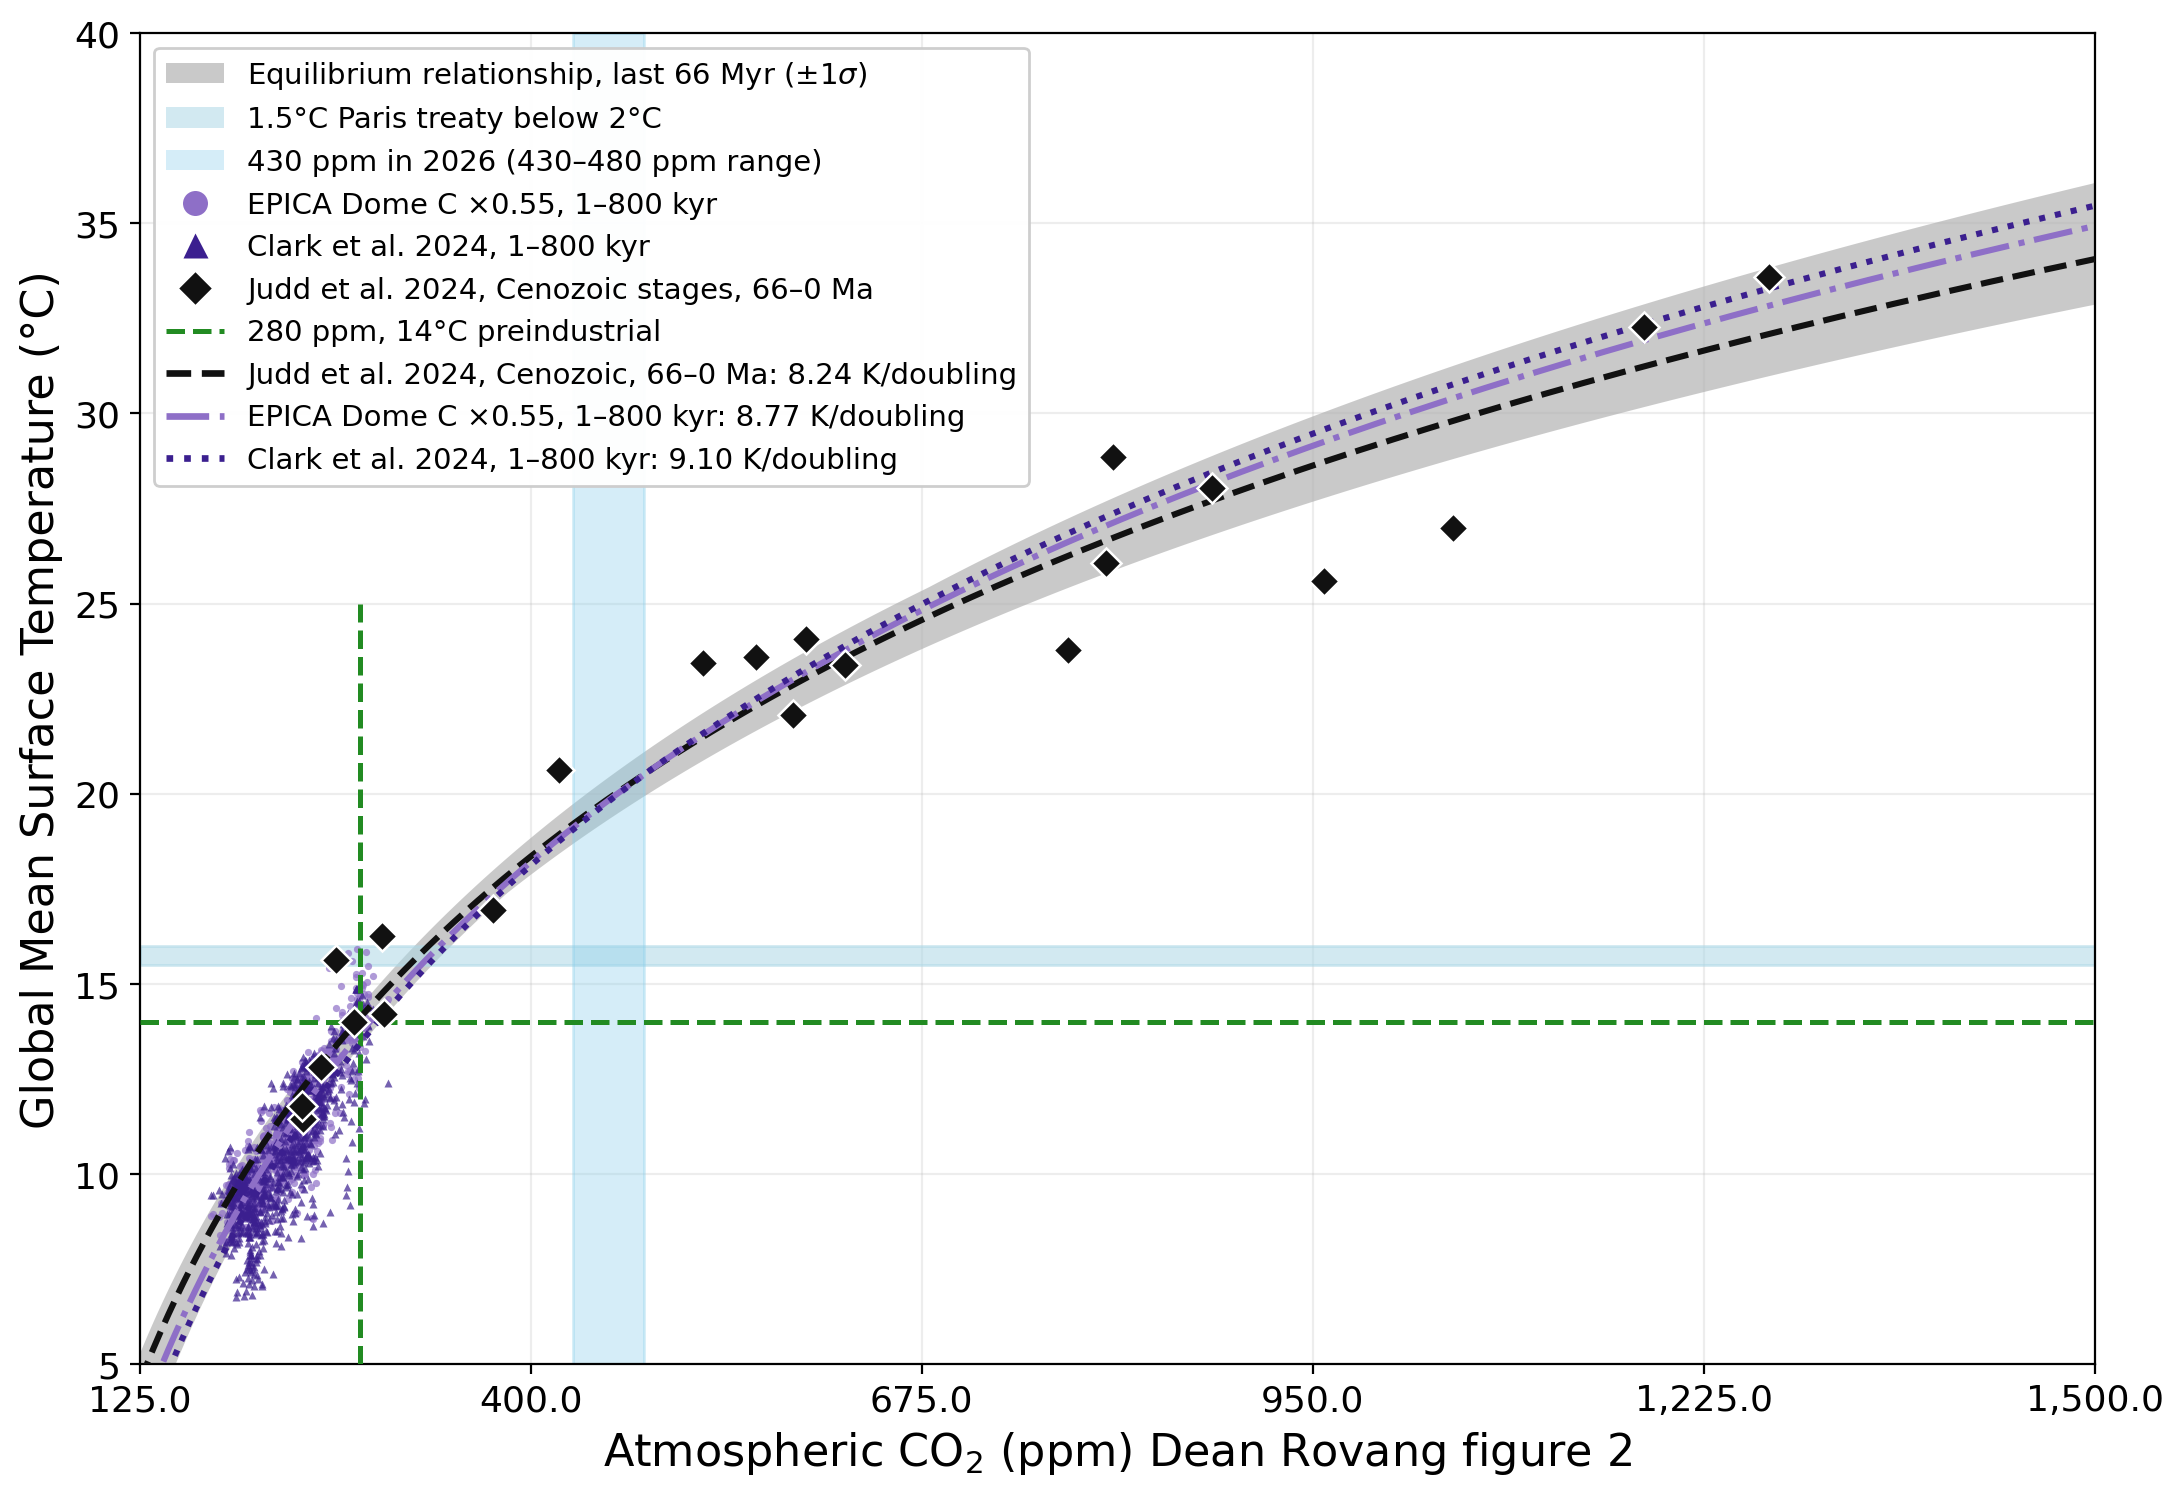
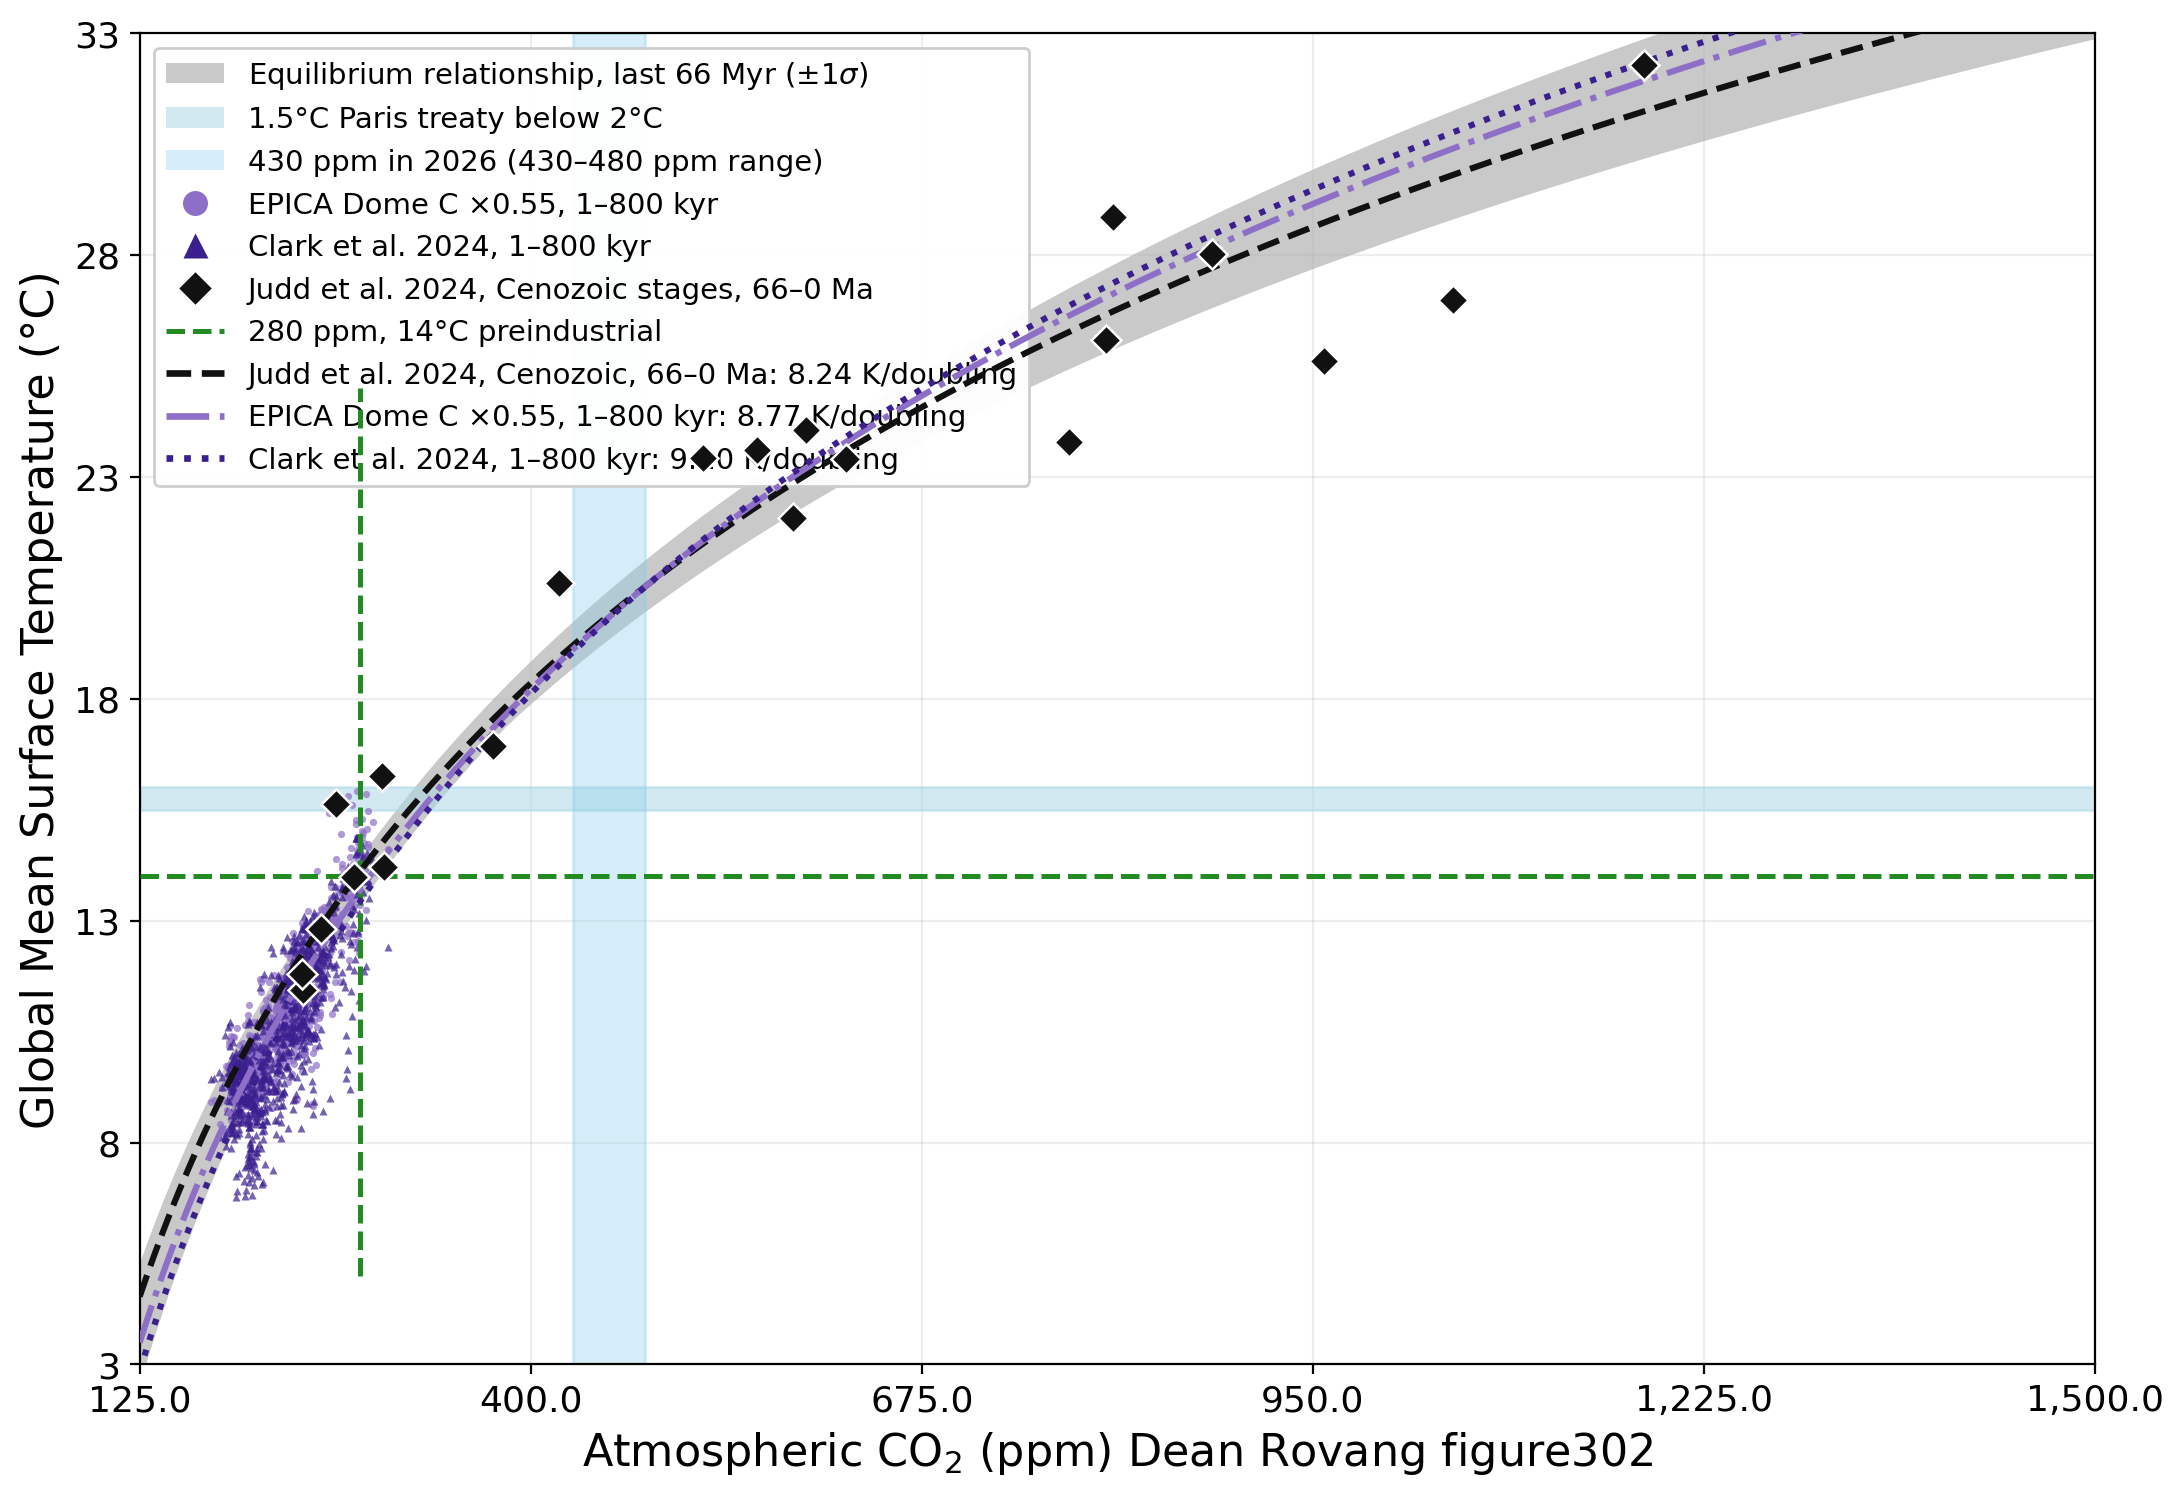
v = "5K44" # Figure_304

diff --git a/Rovang/Rovang_figure_303.py b/Rovang/Rovang_figure_303.py
@@ -22,10 +22,12 @@ import matplotlib.pyplot as plt
 from matplotlib.lines import Line2D
 from matplotlib.patches import Patch
 
+from config import *
+
 GRAY = "#b8b8b8"
 JUDD = "#111111"          # black diamonds, the established default
 EP = "#8e6fc7"            # EPICA, the original purple
-CLK = "#3b1f8f"            # Clark, deep violet-blue - separated from EPICA in hue and value
+CLK = "#3b1f8f"           # Clark, deep violet-blue - separated from EPICA in hue and value
 XLO, XHI = 125, 1500
 YLO, YHI = 5, 40
 
@@ -79,7 +81,7 @@ def _create_figure(linear_x=False):
             mew=0.9, zorder=12,
             label="Judd et al. 2024, Cenozoic stages, 66\u20130 Ma")
 
-    print("Figure 1 \u2014 fits and where each record sits\n")
+    print("Figure 303 \u2014 fits and where each record sits\n")
     xs = np.linspace(Lg(XLO), Lg(XHI), 400)
     for name, slope, intercept, _sg, _sb, color, style in fits:
         src = B.jx if "Judd" in name else (
@@ -102,12 +104,12 @@ def _create_figure(linear_x=False):
     )
     ax.set_xticks(ticks)
     ax.set_xticklabels([f"{tick:,}" for tick in ticks])
-    ax.set_ylim(YLO, YHI)
-    ax.set_yticks(np.arange(YLO, YHI + 1, 5))
+    ax.set_ylim(y_303min, y_303max)
+    ax.set_yticks(np.arange(y_303min, y_303max + 1, 5))
     figure_label = "2" if linear_x else "1"
     scale_label = "ppm" if linear_x else "ppm, log$_2$ scale"
     ax.set_xlabel(
-        f"Atmospheric CO$_2$ ({scale_label}) Dean Rovang figure {figure_label}",
+        f"Atmospheric CO$_2$ ({scale_label}) Dean Rovang figure30{figure_label}",
         fontsize=16,
     )
     ax.set_ylabel("Global Mean Surface Temperature (\u00b0C)", fontsize=16)
@@ -165,9 +167,6 @@ def figure_304_Rovang():
     """Create the linear-x Rovang figure and save figure_304_Rovang.png."""
     return _create_figure(linear_x=True)
 
-def Rovang_figure_2_not_used():
-    """Create the linear-x Rovang figure and save Rovang_figure_2.png."""
-    return _create_figure(linear_x=True)
 
 if __name__ == "__main__":
     figure_303_Rovang()

diff --git a/config.py b/config.py
@@ -255,8 +255,14 @@ y_77max = 4 #  Temperature
 y_78min = 0.6 #  for Tom Harris Temperature 
 y_78max = 1.6 #  for Tom Harris Temperature
 
+# YLO, YHI = 5, 40
+y_303min = 3  # figure303 Temperature y axis 2
+y_303max = 33 # figure303 Temperature y axis 2
+
 x_anf = 2004
 x_end = 2027
+
+# XLO, XHI = 125, 1500
 
 # constants
 # C280 =275 in Zack Labe plots.

diff --git a/main.py b/main.py
@@ -1,5 +1,5 @@
 # main.py
-v = "5K43" # Figure_304
+v = "5K44" # Figure_304
 # https://github.com/Boettcher1960/5_CO2_EEI_T
 # ocean stratification https://bsky.app/profile/thomas-boettcher.bsky.social/post/3mj7zx7fzsc26
 # https://drtomharris.substack.com/p/the-great-decoupling-how-ocean-stratification
